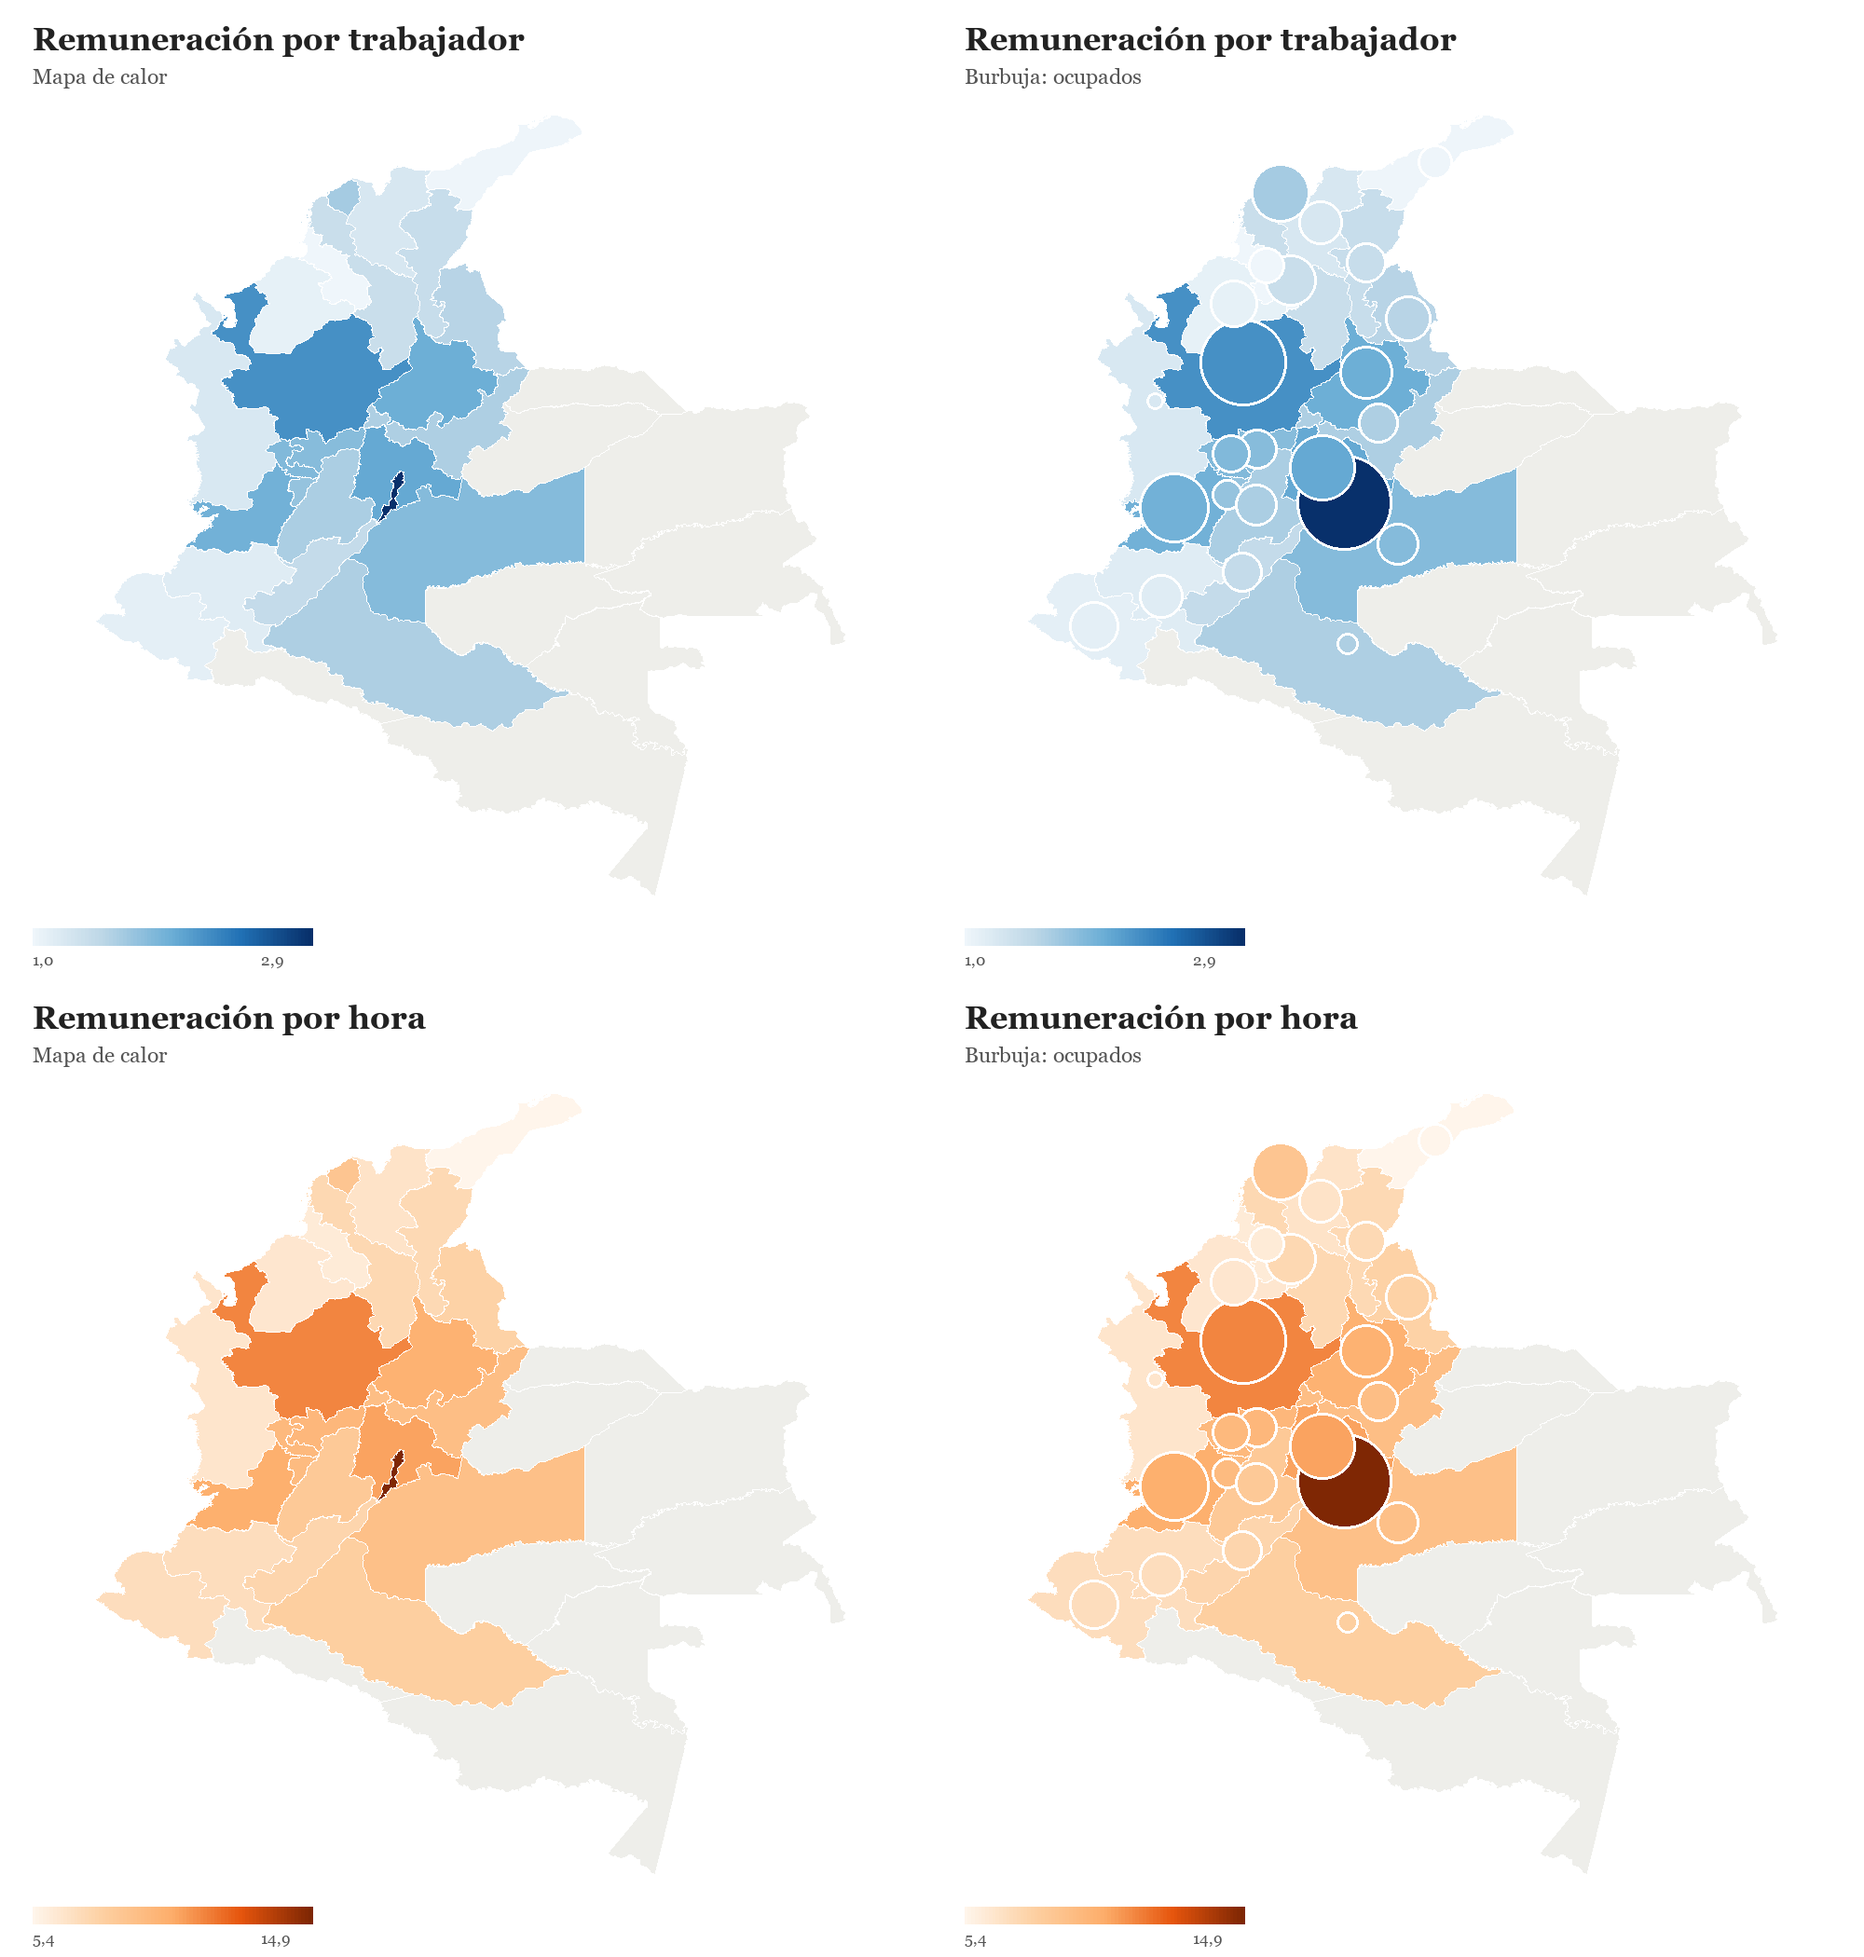
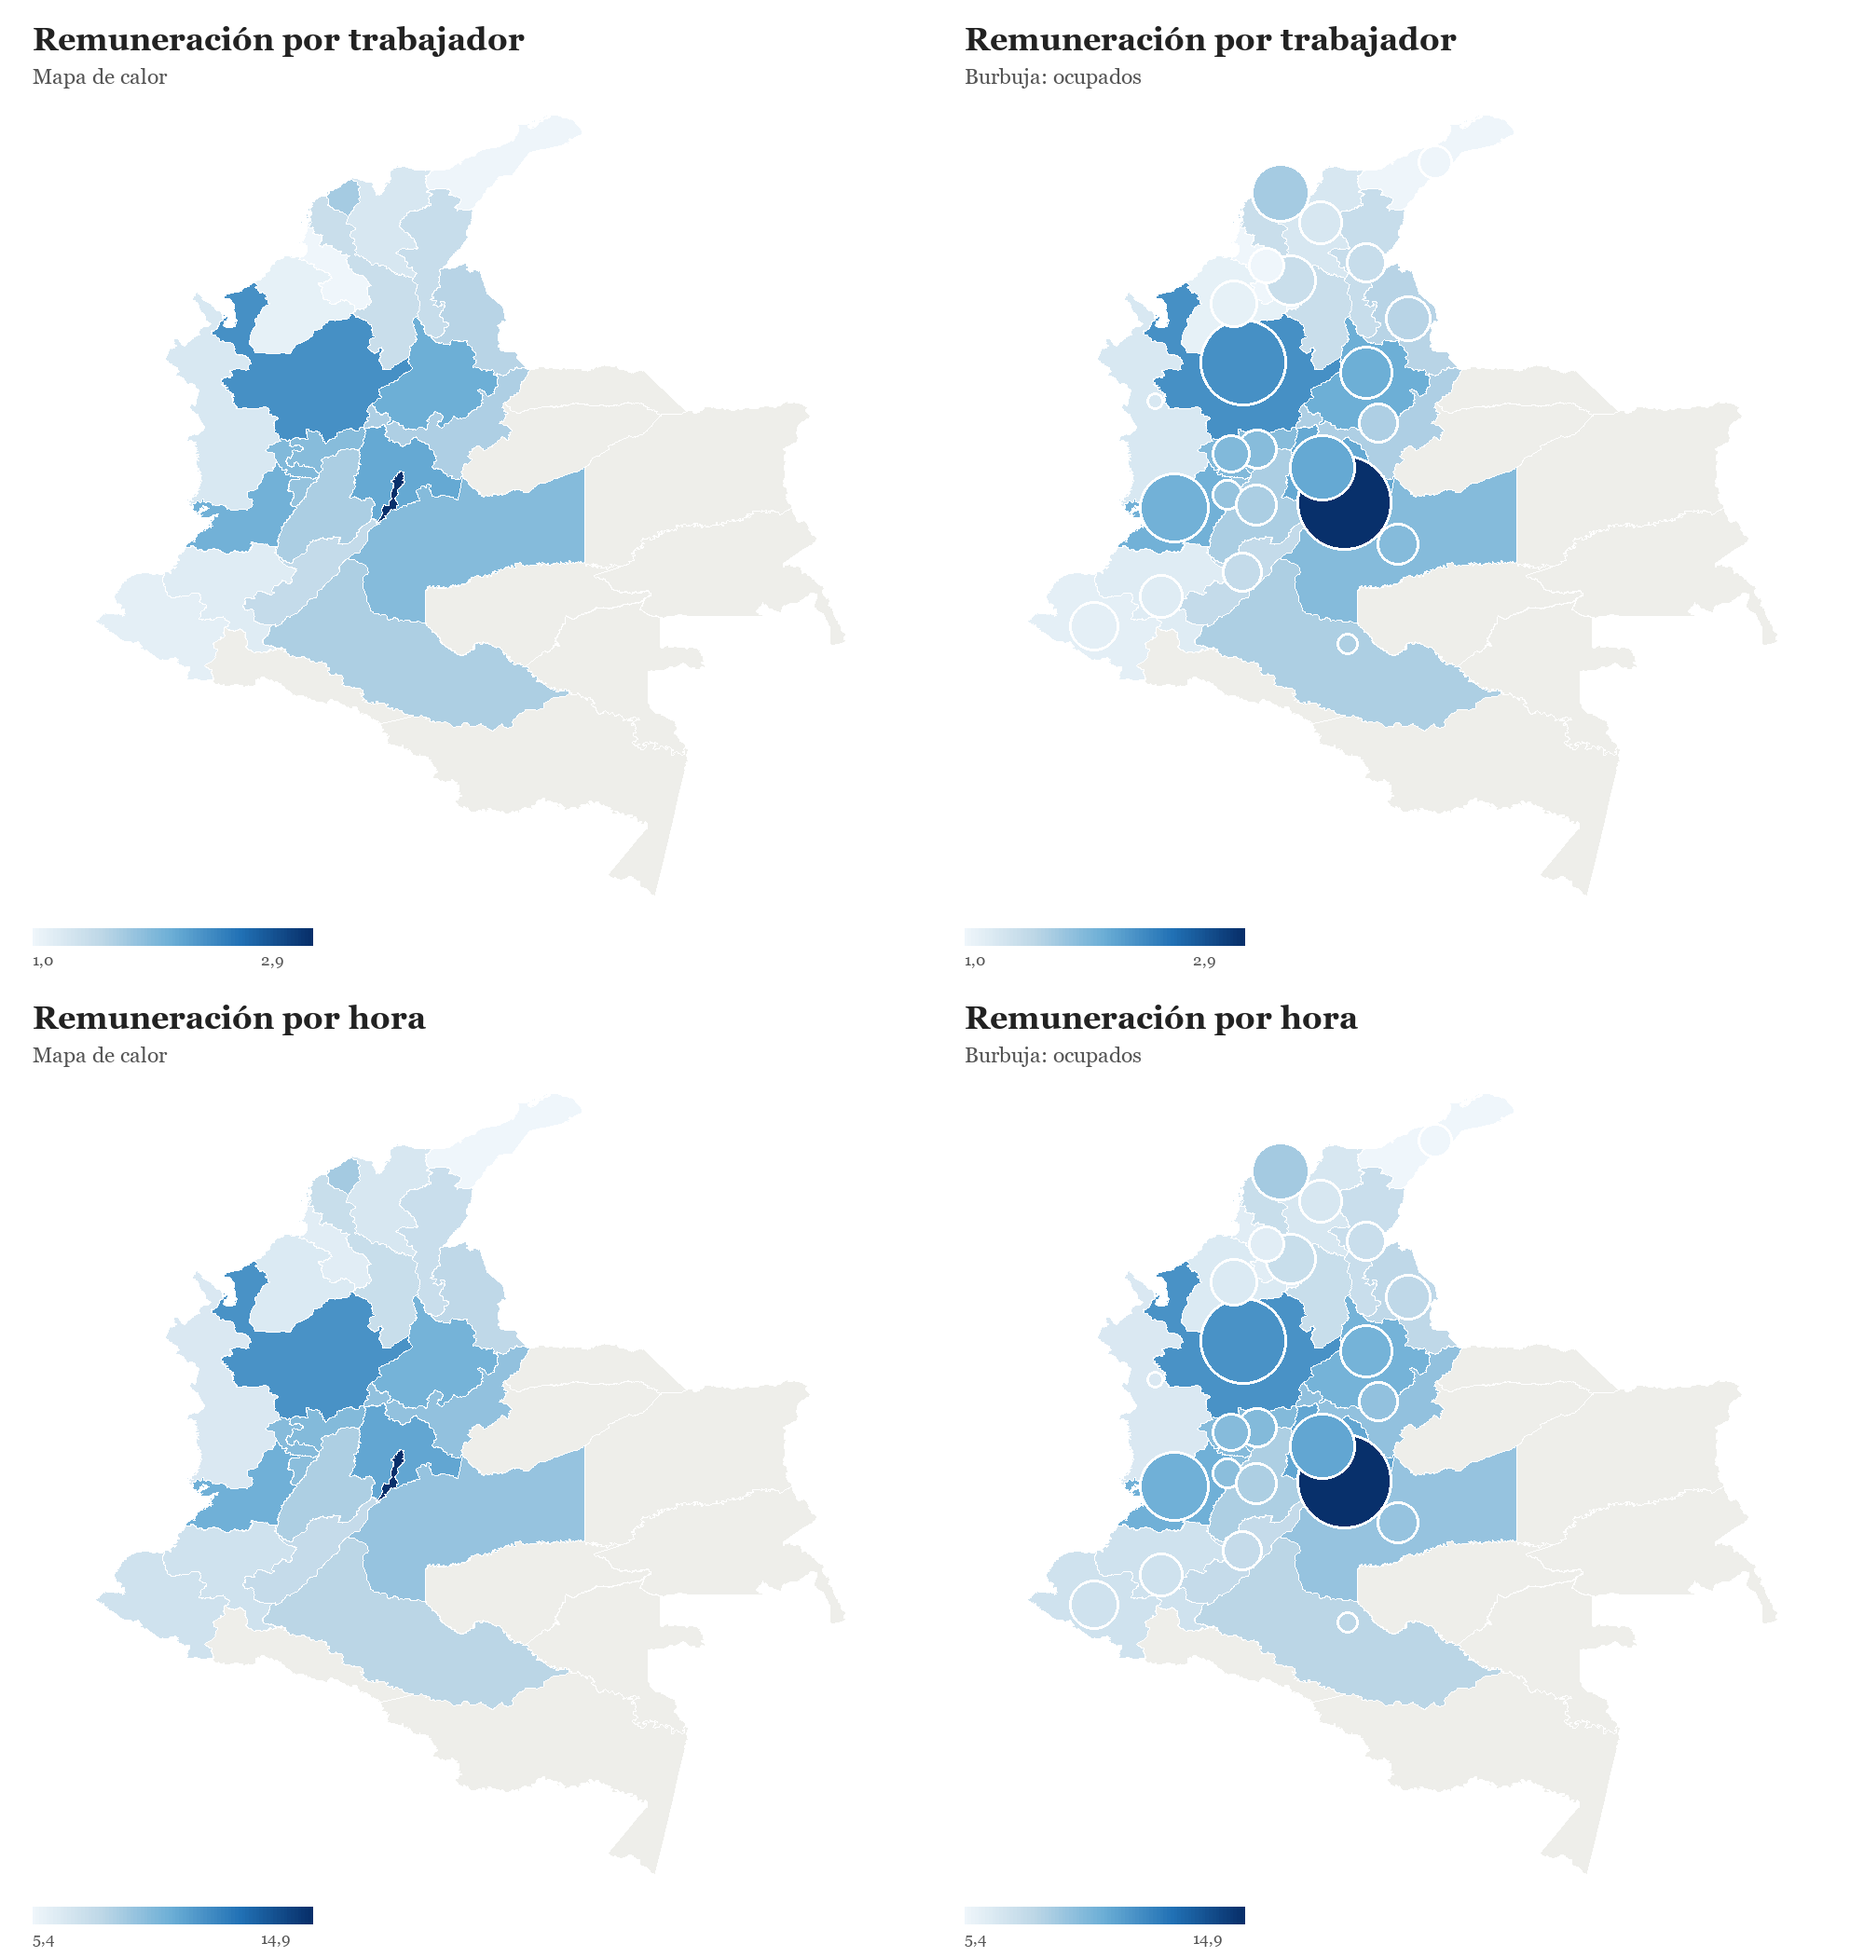
Use blue palette for remuneration hour maps

diff --git a/Code/02.8_Informes_Departamentales.py b/Code/02.8_Informes_Departamentales.py
@@ -1081,8 +1081,8 @@ def draw_remuneration_maps(summary: pd.DataFrame, benchmarks: dict[str, float], 
         [
             draw_single_map(data, "rem_trabajador_millones", "Remuneración por trabajador", "Mapa de calor"),
             draw_single_map(data, "rem_trabajador_millones", "Remuneración por trabajador", "Burbuja: ocupados", bubble=True),
-            draw_single_map(data, "rem_hora_miles", "Remuneración por hora", "Mapa de calor", palette=["#fff5eb", "#fdd0a2", "#fdae6b", "#e6550d", "#7f2704"]),
-            draw_single_map(data, "rem_hora_miles", "Remuneración por hora", "Burbuja: ocupados", palette=["#fff5eb", "#fdd0a2", "#fdae6b", "#e6550d", "#7f2704"], bubble=True),
+            draw_single_map(data, "rem_hora_miles", "Remuneración por hora", "Mapa de calor"),
+            draw_single_map(data, "rem_hora_miles", "Remuneración por hora", "Burbuja: ocupados", bubble=True),
         ],
         f"fig_dept_remuneracion_mapa_niveles_{suffix}.png",
     )
